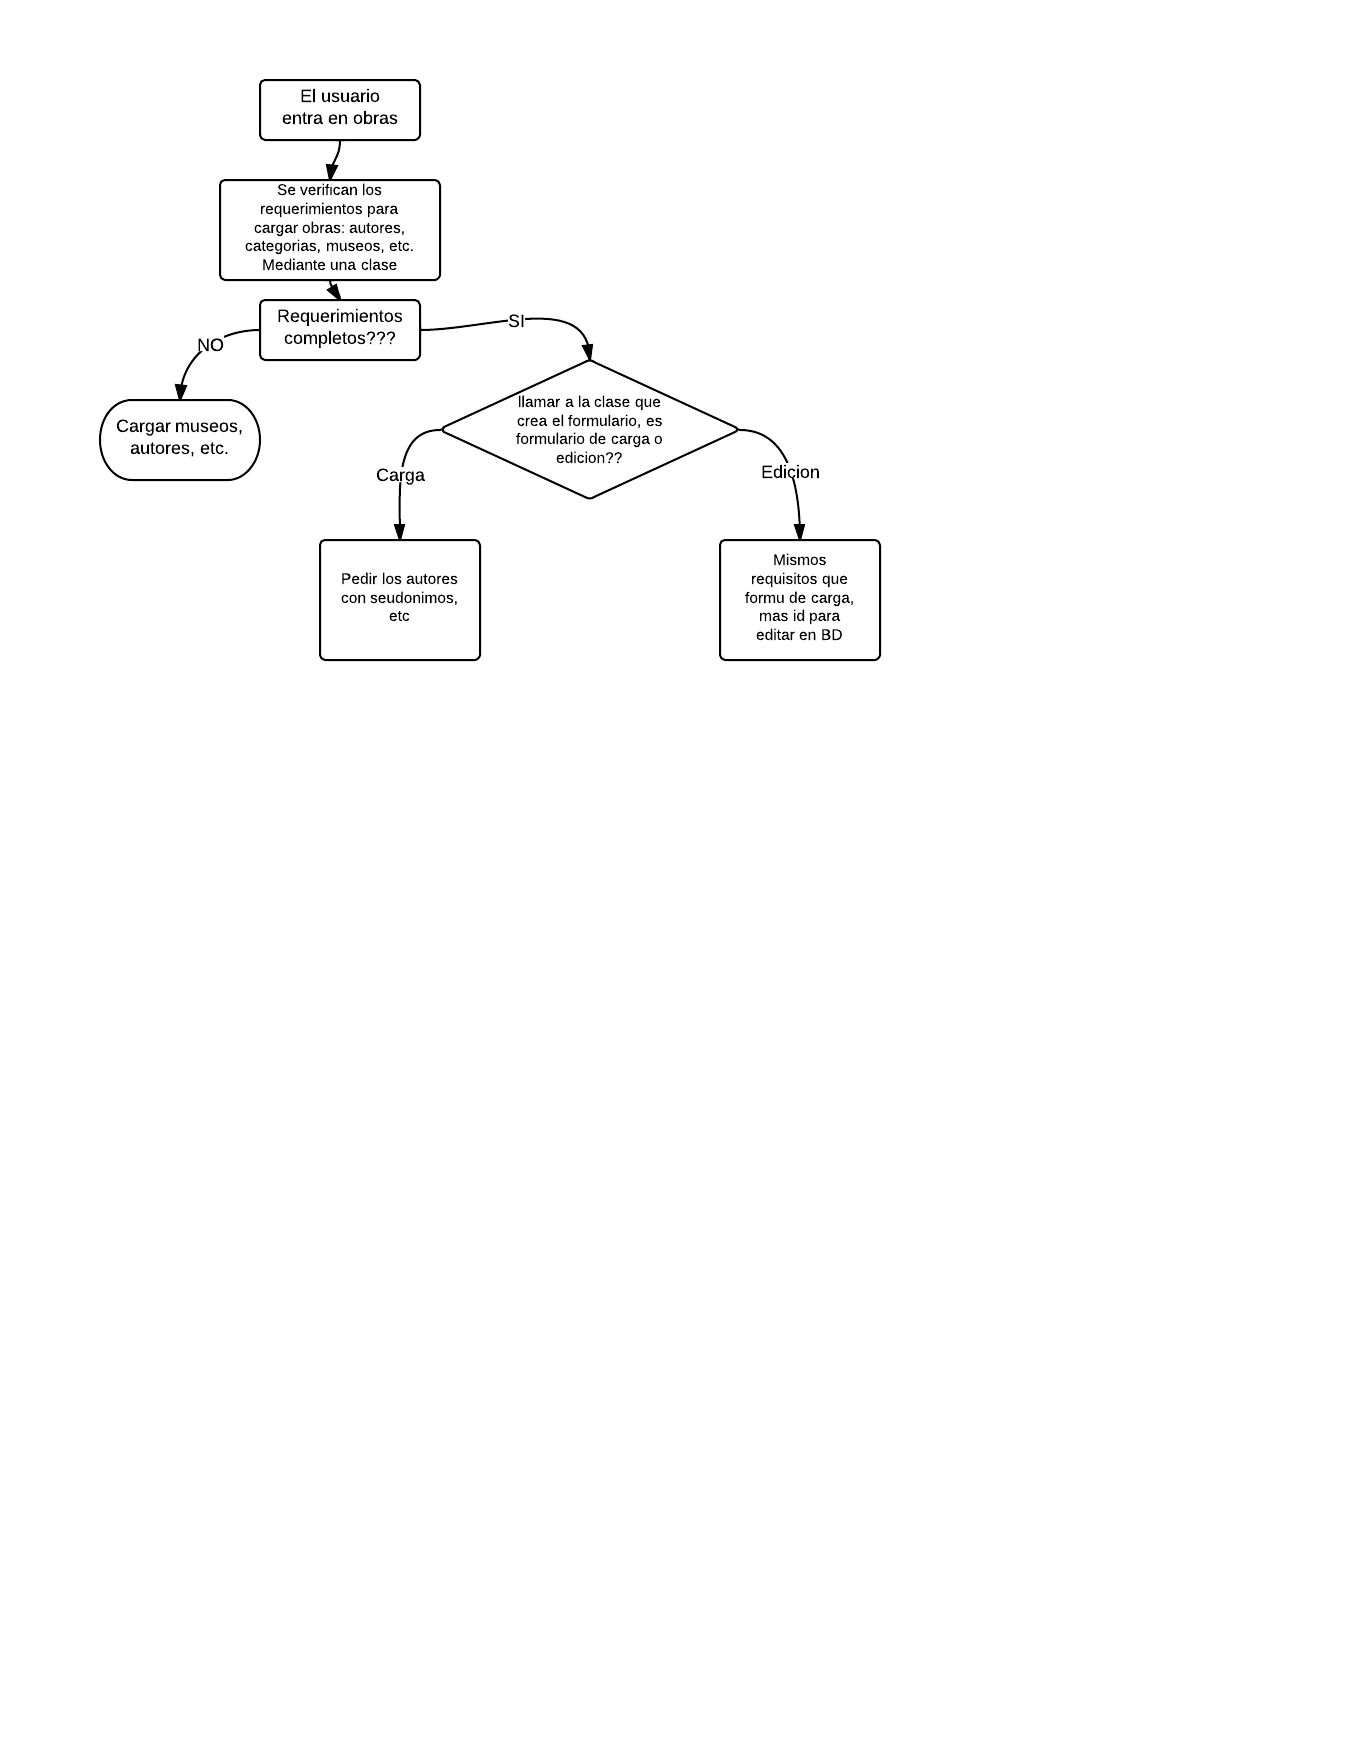
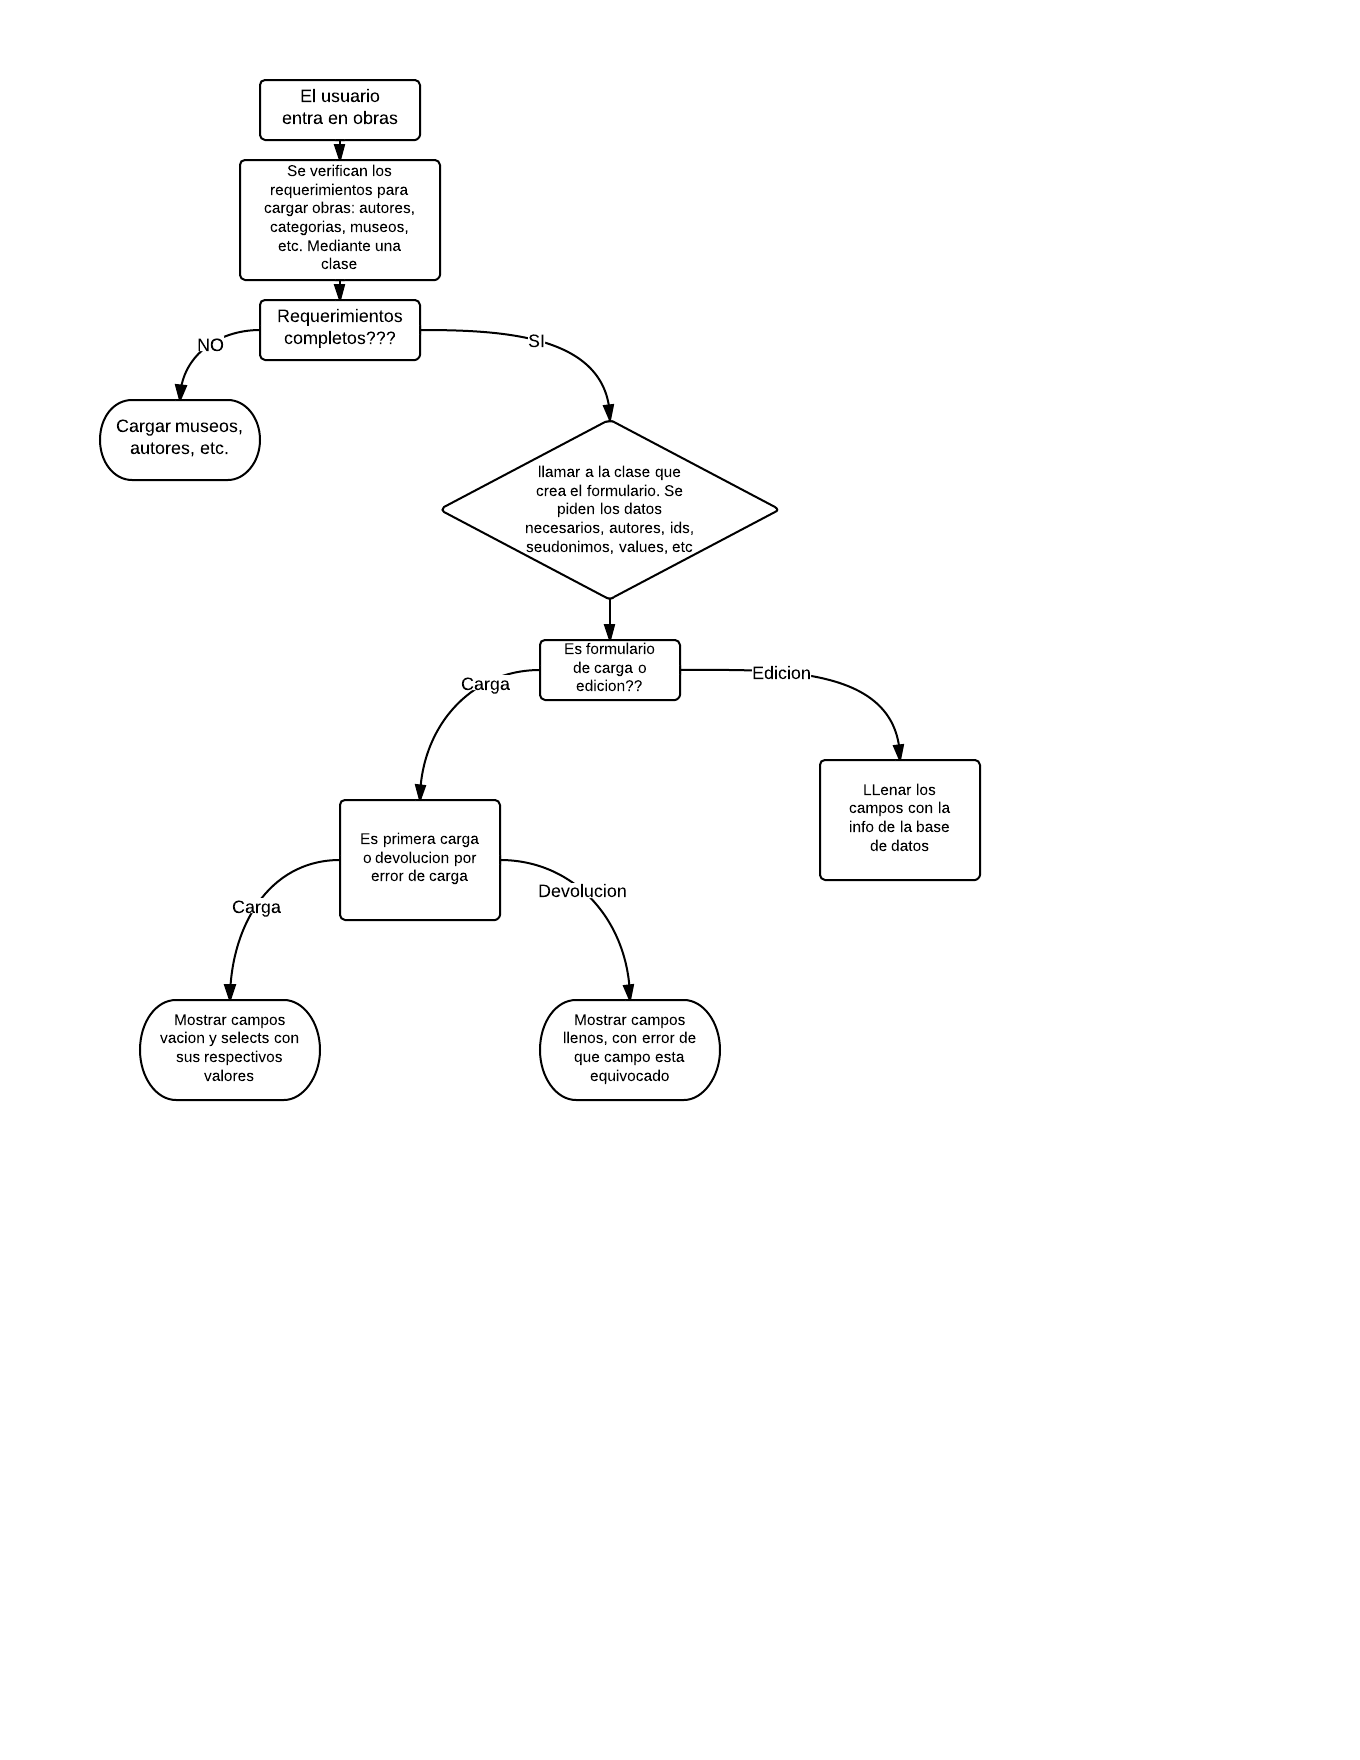
optimizando dia 1

diff --git a/Admin/clases/FormularioObras.php b/Admin/clases/FormularioObras.php
@@ -93,9 +93,19 @@
 				.'<p class="no-seu none">El autor/a seleccionado/a no tiene seudonimo disponible</p></div>'
 				.'<p class="warn none"><span class="label label-warning">Advertencia:</span> Si el autor utiliza su seudonimo, el mail que figurará en el site será el del museo</p></div>';
 
-			$this->formulario = $this->Fieldset('',$this->field_1);
-			$this->formulario .= $this->Fieldset('opciones',$this->field_2);
-			$this->formulario = $this->OpenCloseForm($this->formulario);
+			
+
+				// TERCER FIELDSET
+				// este fieldset corresponde a los botones
+				$this->field_3 = $this->Input(array('submit','submit-obra','','Cargar','class="btn btn-primary"')).'<a class="btn clear-fields" href="#">Limpiar Campos</a>';
+
+				//if($variable_cancelar == true ){$this->field_3.= $this->Button('btn','Cancelar','data-dismiss="modal" aria-hidden="true"');}
+
+				// CERRANDO EL FORMULARIO
+				$this->formulario = $this->Fieldset('',$this->field_1);
+				$this->formulario .= $this->Fieldset('opciones',$this->field_2);
+				$this->formulario .= $this->Fieldset('botones',$this->field_3);
+				$this->formulario = $this->OpenCloseForm($this->formulario);
 		}
 
 		private function forEachOptions($array,$valor){

diff --git a/Admin/controladores/verificar_obras.php b/Admin/controladores/verificar_obras.php
@@ -28,4 +28,18 @@
 		unset($_SESSION['borrado_exitoso']);
 	}
 
+
+	/* right-obras.php define que se muestra en el lado derecho de obras: un mensaje de error, o el formulario */
+	if($requerimientos->respuesta == false){
+		$rightEchoObras = '<div class="right_content"><h2>Para poder crear una nueva obra es necesaria la creacion previa de al menos un autor, una categoria y un museo</h2></div>';
+	}else{
+		// crear nuevo objeto de formulario
+		$formularioObras = new formularioObras('../controladores/controlador-obras.php','obras-form','obras',$requerimientos);
+		$formularioObras->crearForm();
+
+		$rightEchoObras ="<div class='tabs'><a href='#' class='tab-cargar focused-tab'>Cargar Obras</a><a href='#' class='tab-lista'>Lista de Obras</a></div>";
+		$rightEchoObras .= "<div class='right_content_place'><div class='cargar block'>".$formularioObras->formulario."</div>";
+		$rightEchoObras .= "<div class='lista none'><div class='lista-de-obras'>include_once('../controladores/lista-obras.php')</div></div></div>";
+	}
+
 ?>

diff --git a/Admin/vistas/obras.php b/Admin/vistas/obras.php
@@ -39,7 +39,12 @@
 		<div class="middle">
 			<?php include_once("left.php");?>
 			<div class="right" id="right">
-			<?php include_once("right-obras.php");?>
+			<?php
+				if( $errores != false ){echo $errMensaje->output;}
+				if( $exito != false ){echo $exito->output;}
+				if( $borrado != false ){echo $borrado->output;}
+			?>
+			<?php echo $rightEchoObras?>
 			</div>
 		</div>
 		<div class="footer"></div>

diff --git a/Admin/clases/CrearFormulario.php b/Admin/clases/CrearFormulario.php
@@ -34,4 +34,8 @@
 			return '<label for="'.$for.'">'.$data.'</label>';
 		}
 
+		protected function Button($class,$html,$data){
+			return '<button class="'.$class.'" '.$data.'>'.$html.'</button>';
+		}
+
 	}
